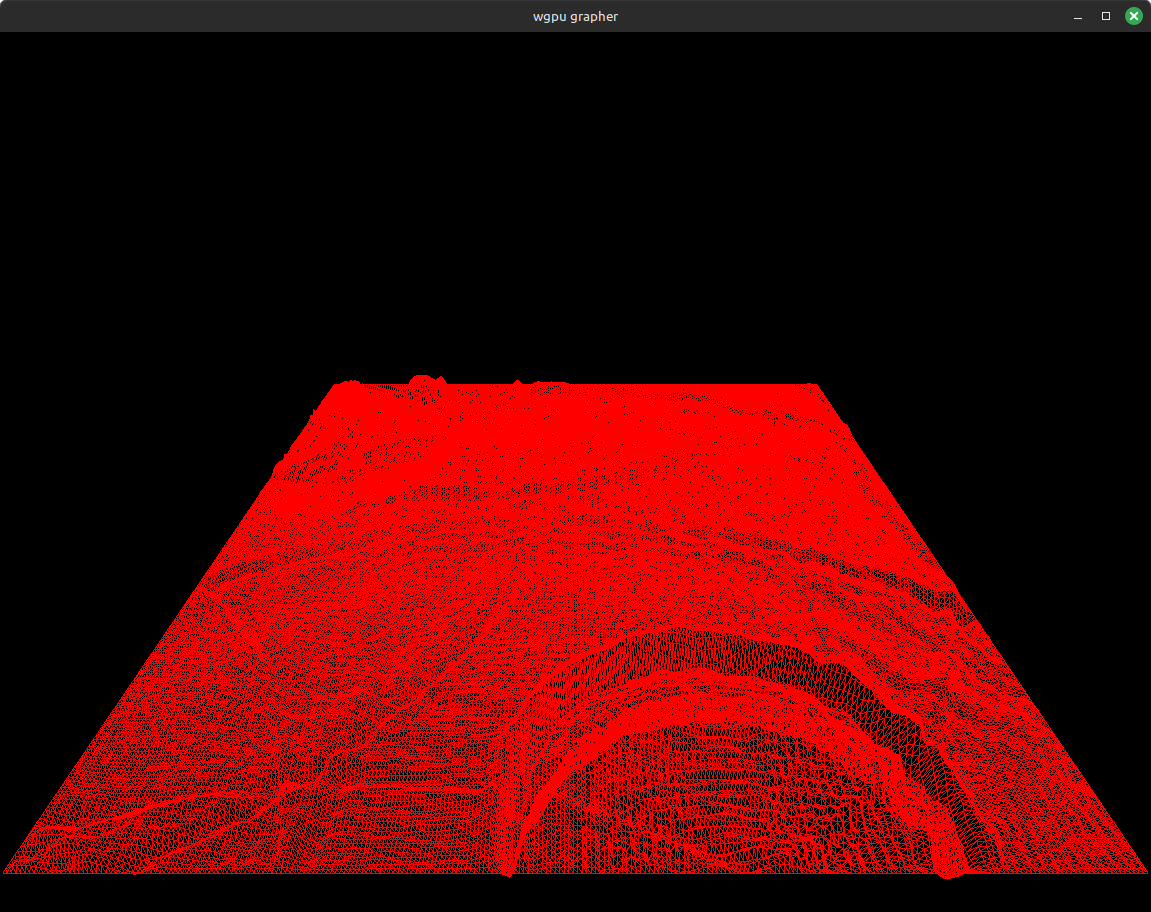
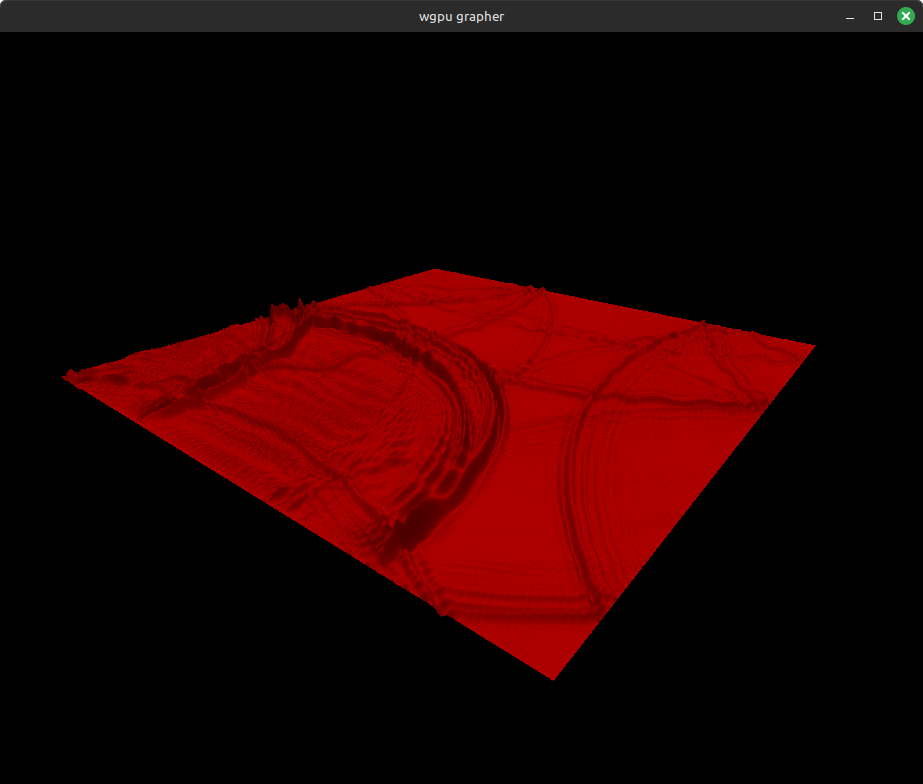
Render wave equation simulation with lighting

diff --git a/src/mesh/solid.rs b/src/mesh/solid.rs
@@ -1,6 +1,7 @@
 // Structures and functions for meshes with color provided per-vertex.
 
 use crate::math::graph;
+use crate::math::graph::SquareTesselation;
 use crate::math::wave_eqn;
 use crate::matrix;
 use crate::matrix::{MatrixState, MatrixUniform};
@@ -237,31 +238,40 @@ pub fn melting_graph_scene(state: &RenderState) -> MeltingScene {
 #[allow(unused)]
 pub struct WaveEquationScene {
   pub scene: Scene,
-  pub func_mesh: MeshData,
+  pub func_mesh: SquareTesselation,
+  pub mesh_data: MeshData,
   pub wave_eqn: wave_eqn::WaveEquationData,
+  pub display_scale: f32,
 }
 
 #[allow(unused)]
 pub fn wave_eqn_scene(state: &RenderState) -> WaveEquationScene {
+  static WAVE_EQN_SUBDIV: usize = 500;
   // number of squares is 1 less than number of gridpoints
   // NOTE: we assume wave_eqn::X_SIZE == wave_eqn::Y_SIZE
-  static SUBDIVISIONS: u32 = wave_eqn::X_SIZE as u32 - 1;
-  static WIDTH: f32 = 2.0;
+  static SUBDIVISIONS: u32 = WAVE_EQN_SUBDIV as u32 - 1;
+  static WIDTH: f32 = 1.0;
 
-  let func_mesh = graph::SquareTesselation::generate(SUBDIVISIONS, WIDTH)
-    .mesh_data(graph::SquareTesselation::FUNCT_COLOR);
-  let matrix = MatrixUniform::translation(&[-WIDTH / 2.0_f32, -0.2_f32, -WIDTH / 2.0_f32]);
+  let func_mesh = graph::SquareTesselation::generate(SUBDIVISIONS, WIDTH);
+  let mesh_data = func_mesh.mesh_data(graph::SquareTesselation::FUNCT_COLOR);
+  let matrix = MatrixUniform::translation(&[-WIDTH / 2.0_f32, 0.1_f32, -WIDTH / 2.0_f32]);
 
-  let scene = build_scene(state, vec![(func_mesh.clone(), matrix)]);
-  let mut wave_eqn = wave_eqn::WaveEquationData::new(500, 500);
+  let scene = build_scene(state, vec![(mesh_data.clone(), matrix)]);
+  let mut wave_eqn = wave_eqn::WaveEquationData::new(WAVE_EQN_SUBDIV, WAVE_EQN_SUBDIV);
 
-  wave_eqn.disturbance_prob = 0.01;
-  wave_eqn.disturbance_size = 200.0;
+  wave_eqn.disturbance_prob = 0.001;
+  wave_eqn.disturbance_size = 50.0;
+  wave_eqn.damping_factor = 0.9965;
+  wave_eqn.prop_speed = 0.25;
+
+  let display_scale: f32 = 0.01;
 
   WaveEquationScene {
     scene,
     func_mesh,
+    mesh_data,
     wave_eqn,
+    display_scale,
   }
 }
 
@@ -274,21 +284,23 @@ impl RenderScene for WaveEquationScene {
     // run next finite-difference timestep
     self.wave_eqn.update();
 
-    static SCALE: f32 = 0.002;
-
-    // update vertex data
-    let n = wave_eqn::X_SIZE;
+    // update vertex y-coordinates
+    let n = self.wave_eqn.x_size;
     for i in 0..n {
       for j in 0..n {
-        self.func_mesh.vertices[j + i * n].position[1] = SCALE * self.wave_eqn.u_0[i][j];
+        self.mesh_data.vertices[j + i * n].position[1] =
+          self.display_scale * self.wave_eqn.u_0[i][j];
       }
     }
+
+    // now update vertex normals
+    self.func_mesh.update_normals(&mut self.mesh_data);
 
     // update vertex buffer
     state.queue.write_buffer(
       &self.scene.meshes[0].vertex_buffer,
       0,
-      bytemuck::cast_slice(self.func_mesh.vertices.as_slice()),
+      bytemuck::cast_slice(self.mesh_data.vertices.as_slice()),
     );
   }
 }

diff --git a/src/math/graph.rs b/src/math/graph.rs
@@ -11,9 +11,13 @@
 // This will create the MeshData object used by mesh::build_scene.
 //
 
+use std::vec;
+
 use crate::mesh::{self, MeshData};
 
 // geometric data
+
+type Vertex = [f32; 3];
 
 pub struct Triangle {
   // should be ordered counter clockwise
@@ -36,25 +40,29 @@ impl Triangle {
     let v_2 = &vertices[self.vertex_indices[1] as usize];
     let v_3 = &vertices[self.vertex_indices[2] as usize];
 
-    // first side
-    let b = [v_2[0] - v_1[0], v_2[1] - v_1[1], v_2[2] - v_1[2]];
-    // second side
-    let a = [v_3[0] - v_1[0], v_3[1] - v_1[1], v_3[2] - v_1[2]];
-
-    // normal vector by cross product
-    let normal = [
-      a[1] * b[2] - a[2] * b[1],
-      a[2] * b[0] - a[0] * b[2],
-      a[0] * b[1] - a[1] * b[0],
-    ];
-    // normalize
-    let mut norm = (normal[0].powi(2) + normal[1].powi(2) + normal[2].powi(2)).sqrt();
-    if self.reflect_normal {
-      norm *= -1.0;
-    }
-
-    [normal[0] / norm, normal[1] / norm, normal[2] / norm]
+    triangle_normal(v_1, v_2, v_3, self.reflect_normal)
   }
+}
+
+fn triangle_normal(v_1: &Vertex, v_2: &Vertex, v_3: &Vertex, reflect: bool) -> [f32; 3] {
+  // first side
+  let b = [v_2[0] - v_1[0], v_2[1] - v_1[1], v_2[2] - v_1[2]];
+  // second side
+  let a = [v_3[0] - v_1[0], v_3[1] - v_1[1], v_3[2] - v_1[2]];
+
+  // normal vector by cross product
+  let normal = [
+    a[1] * b[2] - a[2] * b[1],
+    a[2] * b[0] - a[0] * b[2],
+    a[0] * b[1] - a[1] * b[0],
+  ];
+  // normalize
+  let mut norm = (normal[0].powi(2) + normal[1].powi(2) + normal[2].powi(2)).sqrt();
+  if reflect {
+    norm *= -1.0;
+  }
+
+  [normal[0] / norm, normal[1] / norm, normal[2] / norm]
 }
 
 pub struct Square {
@@ -77,8 +85,6 @@ impl Square {
 }
 
 // square tesselation
-
-type Vertex = [f32; 3];
 
 pub struct SquareTesselation {
   #[allow(unused)]
@@ -183,6 +189,27 @@ impl SquareTesselation {
     }
 
     MeshData { vertices, indices }
+  }
+
+  pub fn update_normals(&self, mesh_data: &mut MeshData) {
+    for square in &self.squares {
+      for t in square.triangles() {
+        let i_1 = t.vertex_indices[0] as usize;
+        let i_2 = t.vertex_indices[1] as usize;
+        let i_3 = t.vertex_indices[2] as usize;
+
+        let v_1 = &mesh_data.vertices[i_1].position;
+        let v_2 = &mesh_data.vertices[i_2].position;
+        let v_3 = &mesh_data.vertices[i_3].position;
+
+        let new_normal = triangle_normal(v_1, v_2, v_3, t.reflect_normal);
+
+        // just update all three normals; some will be updated more than once
+        mesh_data.vertices[i_1].normal = new_normal;
+        mesh_data.vertices[i_2].normal = new_normal;
+        mesh_data.vertices[i_3].normal = new_normal;
+      }
+    }
   }
 }
 

diff --git a/src/event_loop.rs b/src/event_loop.rs
@@ -12,7 +12,7 @@ use winit::{
 use std::{thread, time};
 
 // between-frame delay; aiming for ~60 fps
-const RENDER_TIMEOUT: time::Duration = time::Duration::from_nanos(16_666_667);
+const RENDER_TIMEOUT: time::Duration = time::Duration::from_nanos(16_666_667 / 4);
 
 // implement main event loop
 
@@ -28,10 +28,8 @@ pub async fn run(args: CliArgs) {
   #[allow(unused_mut)]
   let mut scene: Box<dyn RenderScene> = match args.command {
     Command::Graph => Box::from(mesh::graph_scene(&state)),
-    Command::MeltingGraph => Box::from(mesh::melting_graph_scene(&state)),
     Command::WaveEquation => Box::from(mesh::wave_eqn_scene(&state)),
     Command::Image(args) => Box::from(mesh::image_test_scene(&state, &args.path)),
-    Command::CustomTexture => Box::from(mesh::custom_fading_texture_scene(&state)),
     Command::WaveEquationTexture => Box::from(mesh::wave_eqn_texture_scene(&state)),
   };
 
@@ -85,22 +83,25 @@ pub async fn run(args: CliArgs) {
               scene.update(&state);
               state.update();
 
-              match render::render(&state, scene.scene()) {
-                Ok(_) => {}
-                // swap chain needs updated or recreated (wgpu docs)
-                Err(wgpu::SurfaceError::Lost | wgpu::SurfaceError::Outdated) => {
-                  state.resize(state.size)
-                }
+              // crude method to update more often than render
+              if framecount % 2 == 0 {
+                match render::render(&state, scene.scene()) {
+                  Ok(_) => {}
+                  // swap chain needs updated or recreated (wgpu docs)
+                  Err(wgpu::SurfaceError::Lost | wgpu::SurfaceError::Outdated) => {
+                    state.resize(state.size)
+                  }
 
-                // out of memory or other error considered fatal
-                Err(wgpu::SurfaceError::OutOfMemory | wgpu::SurfaceError::Other) => {
-                  log::error!("Out of memory or other error.");
-                  control_flow.exit();
-                }
+                  // out of memory or other error considered fatal
+                  Err(wgpu::SurfaceError::OutOfMemory | wgpu::SurfaceError::Other) => {
+                    log::error!("Out of memory or other error.");
+                    control_flow.exit();
+                  }
 
-                // present has taken too long
-                Err(wgpu::SurfaceError::Timeout) => {
-                  log::warn!("Surface timeout.")
+                  // present has taken too long
+                  Err(wgpu::SurfaceError::Timeout) => {
+                    log::warn!("Surface timeout.")
+                  }
                 }
               }
 

diff --git a/src/math/wave_eqn.rs b/src/math/wave_eqn.rs
@@ -3,8 +3,8 @@
 use rand::Rng;
 use rand::rngs::ThreadRng;
 
-pub const X_SIZE: usize = 256;
-pub const Y_SIZE: usize = 256;
+pub const X_SIZE: usize = 500;
+pub const Y_SIZE: usize = 500;
 
 const PROP_SPEED: f32 = 0.35;
 const DAMPING_FACTOR: f32 = 0.995;
@@ -22,8 +22,8 @@ pub struct WaveEquationData {
   // random number generator
   rng: ThreadRng,
   // grid size
-  x_size: usize,
-  y_size: usize,
+  pub x_size: usize,
+  pub y_size: usize,
   // parameters
   pub prop_speed: f32,
   pub damping_factor: f32,
@@ -41,6 +41,7 @@ impl WaveEquationData {
       //
       x_size,
       y_size,
+      //
       prop_speed: PROP_SPEED,
       damping_factor: DAMPING_FACTOR,
       disturbance_prob: DISTURBANCE_PROB,
@@ -66,8 +67,8 @@ impl WaveEquationData {
     let u_2 = &self.u_2;
 
     // update current internal points; boundary held at 0
-    for i in 1..X_SIZE - 1 {
-      for j in 1..Y_SIZE - 1 {
+    for i in 1..self.x_size - 1 {
+      for j in 1..self.y_size - 1 {
         // next finite difference step
         self.u_0[i][j] = self.prop_speed
           * (u_1[i - 1][j] + u_1[i + 1][j] + u_1[i][j - 1] + u_1[i][j + 1] - 4.0 * u_1[i][j])
@@ -84,8 +85,8 @@ impl WaveEquationData {
     // following Beltoforion's example,
     // add a random disturbance to the space
     if self.rng.random::<f32>() < self.disturbance_prob {
-      let x: usize = self.rng.random_range(5..X_SIZE - 5);
-      let y: usize = self.rng.random_range(5..Y_SIZE - 5);
+      let x: usize = self.rng.random_range(5..self.x_size - 5);
+      let y: usize = self.rng.random_range(5..self.y_size - 5);
 
       for i in x - 2..x + 2 {
         for j in y - 2..y + 2 {

diff --git a/src/light.rs b/src/light.rs
@@ -5,9 +5,9 @@ use wgpu::{BindGroup, BindGroupLayout, Buffer, Device};
 #[derive(Debug, Copy, Clone, bytemuck::Pod, bytemuck::Zeroable)]
 pub struct LightUniform {
   position: [f32; 3],
-  _padding: u32,
+  _pad1: u32,
   color: [f32; 3],
-  _padding2: u32,
+  _pad2: u32,
 }
 
 pub struct LightState {
@@ -21,9 +21,9 @@ impl LightState {
   pub fn create(device: &Device) -> Self {
     let uniform = LightUniform {
       position: [0.0, 8.0, 0.0],
-      _padding: 0,
+      _pad1: 0,
       color: [1.0, 1.0, 1.0],
-      _padding2: 0,
+      _pad2: 0,
     };
 
     let buffer = device.create_buffer_init(&wgpu::util::BufferInitDescriptor {

diff --git a/src/mesh/textured.rs b/src/mesh/textured.rs
@@ -249,6 +249,7 @@ impl RenderScene for FadingCustomTextureScene {
   }
 }
 
+#[allow(unused)]
 /// Render the scene onto both sides of a square canvas.
 pub fn custom_fading_texture_scene(state: &RenderState) -> FadingCustomTextureScene {
   const TEXTURE_DIMS: (u32, u32) = (500, 500);

diff --git a/src/main.rs b/src/main.rs
@@ -20,10 +20,8 @@ pub struct CliArgs {
 #[derive(Subcommand)]
 pub enum Command {
   Graph,
-  MeltingGraph,
   WaveEquation,
   Image(ImageArgs),
-  CustomTexture,
   WaveEquationTexture,
 }
 
